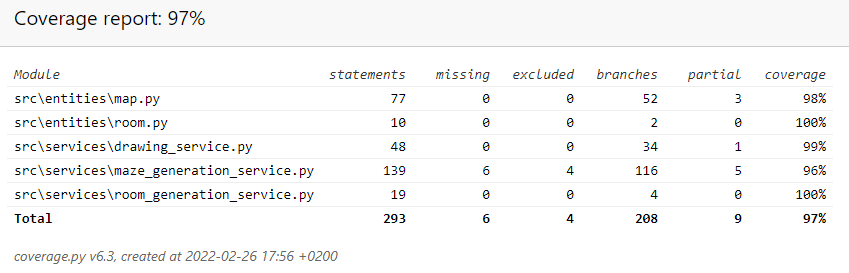
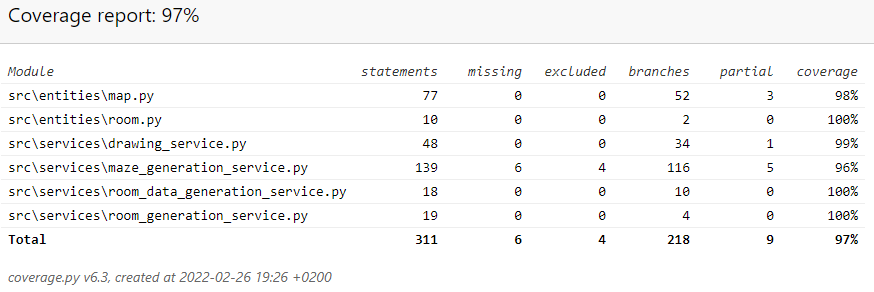
Added room data generation and its associated tests

diff --git a/src/tests/services/test_room_data_generation_service.py b/src/tests/services/test_room_data_generation_service.py
@@ -1,0 +1,42 @@
+import unittest
+from entities.room import Room
+from services.room_generation_service import RoomGenerationService
+from services.room_data_generation_service import RoomDataGenerationService
+
+class TestDrawingService(unittest.TestCase):
+    def setUp(self):
+        self.room_generation_service = RoomGenerationService()
+        self.empty_data_generation_service = RoomDataGenerationService(self.room_generation_service)
+        room = Room((1,1))
+        room.is_generated = True
+        room_gen = RoomGenerationService()
+        room_gen.rooms.append(room)
+        self.data_generation_service = RoomDataGenerationService(room_gen)
+
+    def test_if_there_are_no_rooms_placed_rooms_remains_empty(self):
+        self.assertEqual(len(self.empty_data_generation_service._placed_rooms), 0)
+
+    def test_number_of_placed_rooms_displayed_correctly(self):
+        self.assertEqual(len(self.data_generation_service._placed_rooms), 1)
+
+    def test_a_non_generated_room_is_not_a_placed_room(self):
+        room = Room((1,1))
+        self.room_generation_service.rooms.append(room)
+        data_gen = RoomDataGenerationService(self.room_generation_service)
+        self.assertEqual(len(data_gen._placed_rooms), 0)
+
+    def test_if_there_are_no_rooms_data_remains_empty(self):
+        self.empty_data_generation_service.init_data()
+        self.assertEqual(len(self.empty_data_generation_service._data), 0)
+
+    def test_rooms_number_is_displayed_correctly_in_the_data(self):
+        self.data_generation_service.init_data()
+        self.assertEqual(self.data_generation_service._data[0][0], 1)
+
+    def test_empty_data_is_formatted_correctly(self):
+        self.empty_data_generation_service.init_data()
+        self.assertEqual(self.empty_data_generation_service.print_data("test"), "test - GM Document\n\n")
+
+    def test_data_with_one_room_is_formatted_correctly(self):
+        self.data_generation_service.init_data()
+        self.assertEqual(self.data_generation_service.print_data("test"), "test - GM Document\n\nRoom 1\n\n")

diff --git a/src/services/room_data_generation_service.py b/src/services/room_data_generation_service.py
@@ -1,0 +1,46 @@
+from collections import namedtuple
+
+class RoomDataGenerationService:
+    """Service for generating data for the rooms, like their descriptions
+
+    Attributes:
+        placed_rooms: A list containing the rooms that have been placed on the map
+        data_object: Initialising the namedtuple in which the room information is saved
+        data: A list containing namedtuples that store information about each room
+    """
+
+    def __init__(self, room_generation_service):
+        """Create a new RoomDataGenerationService object
+
+        Args:
+            room_generation_service: The room generation service object which contains
+            the information on the rooms"""
+        self._placed_rooms = []
+        self._data_object = namedtuple("Room", ["number"])
+        self._data = []
+        for room in room_generation_service.rooms:
+            if room.is_generated:
+                self._placed_rooms.append(room)
+
+    def init_data(self):
+        """Initialize the data for each room"""
+
+        for index, room in enumerate(self._placed_rooms):
+            data = self._data_object(index+1)
+            self._data.append(data)
+
+    def print_data(self, name):
+        """Convert the data to string form
+
+        Args:
+            name: The desired name to act as the title of the data
+
+        Returns: The data in string form, separated room by room
+        """
+
+        data_string = f"{name} - GM Document\n\n"
+
+        for data in self._data:
+            data_string += f"Room {data[0]}\n\n"
+
+        return data_string

diff --git a/src/GUI/main_gui.py b/src/GUI/main_gui.py
@@ -4,7 +4,9 @@ from entities.map import Map
 from services.room_generation_service import RoomGenerationService
 from services.maze_generation_service import MazeGenerationService
 from services.drawing_service import DrawingService
+from services.room_data_generation_service import RoomDataGenerationService
 from repositories.map_repository import MapRepository
+from repositories.gm_document_repository import GMDocumentRepository
 
 class MainGUI:
     """The main GUI class handling opening of the basic view of the GUI.
@@ -268,3 +270,7 @@ class MainGUI:
         if not err:
             self.error_message_label.config(foreground="green")
             self.error_message.set(f"Generated dungeon saved to demo/{self.file_name.get()}.png")
+        data_gen = RoomDataGenerationService(room_gen)
+        data_gen.init_data()
+        doc_repo = GMDocumentRepository(self.file_name.get())
+        doc_repo.write_data(data_gen.print_data(self.file_name.get()))

diff --git a/src/repositories/gm_document_repository.py b/src/repositories/gm_document_repository.py
@@ -1,0 +1,23 @@
+class GMDocumentRepository:
+    """Handles the file management of the Game Master's text document
+
+    Attributes:
+        document: The document in which to write
+    """
+
+    def __init__(self, file_name):
+        """Create a new GMDocumentRepository object
+
+        Args:
+            file_name: The file name of the Game Master's document
+        """
+        self._document = open(f"demo/{file_name}.txt", 'w')
+
+    def write_data(self, data):
+        """Write the contents of the text file
+
+        Args:
+            data: The data to be included in the text file
+        """
+        self._document.write(data)
+        self._document.close()

diff --git a/documentation/TESTING.md b/documentation/TESTING.md
@@ -115,6 +115,21 @@ This program has been automatically tested using pytest. Always up-to-date testi
     - Tested by generating a room in coordinates (1,2) with the width of 3 and height of 4, and checking that it's added to a list of rooms
 - When rooms are randomly generated, the amount of rooms is correct
     - Tested by first generating 10 random rooms and checking that the amount of rooms is 10, then generating 20 additional rooms and checking that the amount is 30
+### services/room_data_generation_service
+- If there are no rooms on the map, the list of placed rooms remains empty
+    - Tested by initializing a room data generation service object and not adding any rooms to the attributed room generation service object
+- If there is a single generated room, it is added to the list of placed rooms
+    - Tested by adding a single room marked as generated in the attributed room generation service object and checking that the list of placed rooms has a single object
+- If there are rooms but none of them are generated, they will not become placed rooms
+    - Tested by adding a single room marked as not generated and checking that the number of placed rooms remains at 0
+- If there are no rooms on the map, no data will appear
+    - Tested by not adding any rooms and checking that the amount of data on the data list is 0
+- A placed room has its number displayed correctly
+    - Tested by placing a single room and checking that its associated data displays the number 1
+- If data is empty, the string presentation is formatted correctly
+    - Tested by printing the empty data and checking that it only contains the name, the text "GM Document" and ends with two line breaks
+- If there is a single room, it appears in the string presentation of the data correctly
+    - Tested by placing a single room and checking that the string representation of the data includes the text for "Room 1"
 ## Performance test results
 **Map:** 100x100    **Room generation attempts:** 100   **Repeats:** 50
 ### Initialize map 
